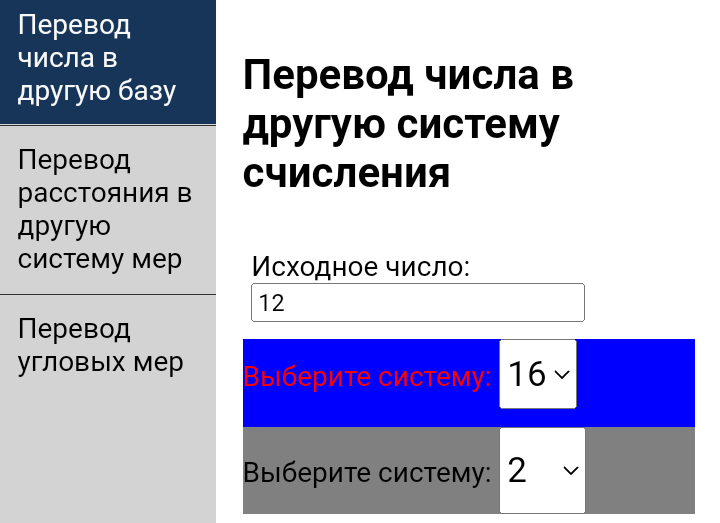
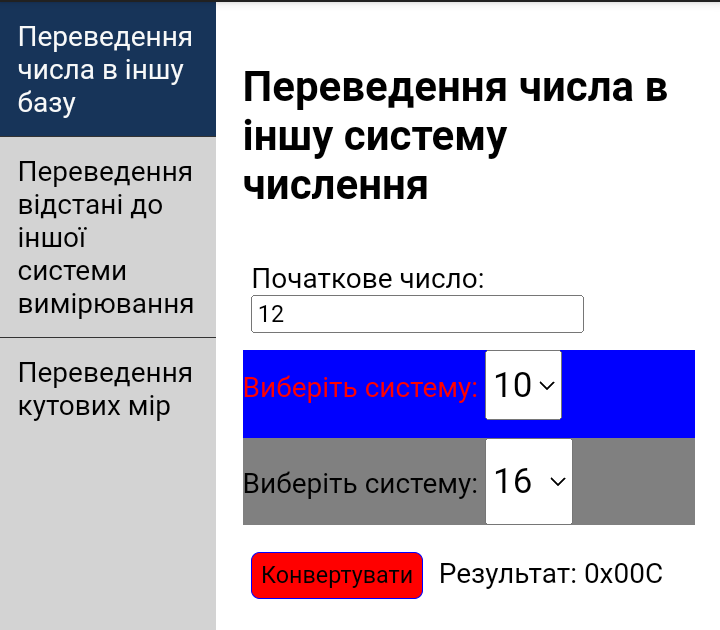
More Ukrainian.

diff --git a/src/index.html b/src/index.html
@@ -1,5 +1,5 @@
 <!DOCTYPE html>
-<html lang="en">
+<html lang="ua">
   <head>
     <meta charset="UTF-8" />
     <meta http-equiv="X-UA-Compatible" content="IE=edge" />
@@ -12,21 +12,21 @@
       <div class="nav-bar">
         <ul>
           <li>
-            <a href="#base" id="to_base" class="active" onclick="addClassForLink('to_base')"> Перевод числа в другую базу </a>
+            <a href="#base" id="to_base" class="active" onclick="addClassForLink('to_base')"> Переведення числа в іншу базу </a>
           </li>
           <li>
-            <a href="#distance" id="to_distance" onclick="addClassForLink('to_distance')"> Перевод расстояния в другую систему мер </a>
+            <a href="#distance" id="to_distance" onclick="addClassForLink('to_distance')"> Переведення відстані до іншої системи вимірювання </a>
           </li>
-          <li><a href="#angle" id="to_angle" onclick="addClassForLink('to_angle')"> Перевод угловых мер </a></li>
+          <li><a href="#angle" id="to_angle" onclick="addClassForLink('to_angle')"> Переведення кутових мір </a></li>
         </ul>
       </div>
 
       <div class="wrapper">
         <div class="block">
-          <h2 id="base">Перевод числа в другую систему счисления</h2>
+          <h2 id="base">Переведення числа в іншу систему числення</h2>
           <form>
             <div class="start">
-              <label class="label"> Исходное число: </label>
+              <label class="label"> Початкове число: </label>
               <input
                 type="text"
                 class="input"
@@ -37,18 +37,18 @@
             </div>
             <div class="from dropdown_menu">
               <label class="label">
-                Выберите систему:
+                Виберіть систему:
                 <select class="dropdown" id="convertfrom" name="convertfrom">
                   <option value="2">2</option>
                   <option value="8">8</option>
-                  <option value="10">10</option>
+                  <option value="10" selected>10</option>
                   <option value="16">16</option>
                 </select>
               </label>
             </div>
             <div class="to dropdown_menu" id="main_dropdown_menu">
               <label class="label">
-                Выберите систему:
+                Виберіть систему:
                 <select
                   class="convertto dropdown"
                   name="convertto"
@@ -66,7 +66,7 @@
               class="button"
               name="TryConvert"
               id=""
-              value="Конвертировать"
+              value="Конвертувати"
               onclick="numberConvert()"
             />
             <span class="span" id="out">Результат:</span>
@@ -74,10 +74,10 @@
         </div>
 
         <div class="block">
-          <h2 id="distance">Перевод длины в другую метрику</h2>
+          <h2 id="distance">Переведення довжини в іншу метрику</h2>
           <form>
             <div class="start">
-              <label class="label"> Исходное число: </label>
+              <label class="label"> Початкове число: </label>
               <input
                 type="text"
                 class="input"
@@ -88,7 +88,7 @@
             </div>
             <div class="from dropdown_menu">
               <label class="label">
-                Выберите систему:
+                Виберіть систему:
                 <select id="from2" name="">
                   <option value="м">м</option>
                   <option value="фут">фут</option>
@@ -99,7 +99,7 @@
             </div>
             <div class="to dropdown_menu" id="second_dropdown_menu">
               <label class="label">
-                Выберите систему:
+                Виберіть систему:
                 <select
                   class="convertto dropdown"
                   name=""
@@ -107,7 +107,7 @@
                 >
                   <option value="м">м</option>
                   <option value="фут">фут</option>
-                  <option value="миля">миля</option>
+                  <option value="миля" selected>миля</option>
                   <option value="км">км</option>
                 </select>
               </label>
@@ -117,7 +117,7 @@
               class="button"
               name=""
               id=""
-              value="Конвертировать"
+              value="Конвертувати"
               onclick="lengthConvert()"
             />
             <span class="span" id="out2">Результат:</span>
@@ -125,10 +125,10 @@
         </div>
         
         <div class="block">
-          <h2 id="angle">Перевод угловых мер</h2>
+          <h2 id="angle">Переведення кутових мір</h2>
           <form>
             <div class="start">
-              <label class="label"> Исходное число: </label>
+              <label class="label"> Початкове число: </label>
               <input
                 type="text"
                 class="input"
@@ -139,24 +139,24 @@
             </div>
             <div class="from dropdown_menu">
               <label class="label">
-                Выберите систему (исходная):
+                Виберіть систему (початкова):
                 <select id="from3" name="">
-                  <option value="градус"> градус </option>
-                  <option value="радиан"> радиан </option>
+                  <option value="градус" selected> градус </option>
+                  <option value="радіан"> радіан </option>
                   <option value="град"> град </option>
                 </select>
               </label>
             </div>
             <div class="to dropdown_menu" id="second_dropdown_menu">
               <label class="label">
-                Выберите систему (конечная):
+                Виберіть систему (кінцева):
                 <select
                   class="convertto dropdown"
                   name=""
                   id="third_dropdown"
                 >
                   <option value="градус"> градус </option>
-                  <option value="радиан"> радиан </option>
+                  <option value="радіан" selected> радіан </option>
                   <option value="град"> град </option>
                 </select>
               </label>
@@ -166,7 +166,7 @@
               class="button"
               name=""
               id=""
-              value="Конвертировать"
+              value="Конвертувати"
               onclick="angleConvert()"
             />
             <span class="span" id="out3" >Результат:</span>
@@ -177,6 +177,6 @@
     <script src="./run.js"></script>
   </body>
   <footer class="regular">
-    <p>Copyright MarkAlexI 2022</p>
+    <p>Copyright MarkAlexI 2024</p>
   </footer>
 </html>

diff --git a/src/run.js b/src/run.js
@@ -1,35 +1,38 @@
 'use strict';
 
 function numberConvert() {
-    let output = document.getElementById("out");
-    let input = document.getElementById("input").value;
-  
-    let from = +document.getElementById("convertfrom").value;
-    let to = +document.getElementById("main_dropdown").value;
-    let result = parseInt(input, from).toString(to);
-    let checkInput = false;
-    switch (from) {
-      case 2:
-        checkInput = /^[01]+$/.test(input);
-        break;
-      case 8:
-        checkInput = /^[0-7]+$/.test(input);
-        break;
-      case 10:
-        checkInput = /^\d+$/.test(input);
-        break;
-      case 16:
-        checkInput = /^[0-9-ABCDEF]+$/.test(input);
-        break;
-      default:
-        console.log("?");
-        break;
-    }
-    
-    if (isNaN(result) || !checkInput) result = "введенное число не валидно";
-    output.innerHTML = "Результат: " + result;
+  let output = document.getElementById("out");
+  let input = document.getElementById("input").value;
+
+  let from = +document.getElementById("convertfrom").value;
+  let to = +document.getElementById("main_dropdown").value;
+  let result = parseInt(input, from).toString(to);
+  let checkInput = false;
+  switch (from) {
+    case 2:
+      checkInput = /^[01]+$/.test(input);
+      break;
+    case 8:
+      checkInput = /^[0-7]+$/.test(input);
+      break;
+    case 10:
+      checkInput = /^\d+$/.test(input);
+      break;
+    case 16:
+      checkInput = /^[0-9-ABCDEF]+$/.test(input);
+      break;
+    default:
+      console.log("?");
+      break;
   }
   
+  if (to === 16) result = '0x00' + result.toUpperCase();
+  
+  if (to !== 16 && isNaN(result) || !checkInput) result = "введене число не валідне";
+
+  output.innerHTML = "Результат: " + result;
+}
+
 function lengthConvert() {
   let output = document.getElementById("out2");
   let input = document.getElementById("input2").value;
@@ -38,29 +41,29 @@ function lengthConvert() {
   let to = document.getElementById("second_dropdown").value;
   let coef = 10;
   let result = 0;
-  
+
   if (from === "м" && to === "м") coef = 1;
   if (from === "м" && to === "фут") coef = 3.28084;
-  if (from === "м" && to === "миля") coef = 1/1609.34;
+  if (from === "м" && to === "миля") coef = 1 / 1609.34;
   if (from === "м" && to === "км") coef = .001;
-  
+
   if (from === "фут" && to === "м") coef = .3048;
   if (from === "фут" && to === "фут") coef = 1;
   if (from === "фут" && to === "миля") coef = 0.000189;
   if (from === "фут" && to === "км") coef = .0003048;
-  
+
   if (from === "миля" && to === "м") coef = 1609.34;
   if (from === "миля" && to === "фут") coef = 5280;
   if (from === "миля" && to === "миля") coef = 1;
   if (from === "миля" && to === "км") coef = 1.60934;
-  
+
   if (from === "км" && to === "м") coef = 0.001;
   if (from === "км" && to === "фут") coef = 3280.84;
   if (from === "км" && to === "миля") coef = .621371;
   if (from === "км" && to === "км") coef = 1;
-  
+
   result = input * coef;
-  if (input < 0 || isNaN(result)) result = "введенное число не валидно";
+  if (input < 0 || isNaN(result)) result = "введене число не валідне";
   output.innerHTML = "Результат: " + result;
 }
 
@@ -72,21 +75,21 @@ function angleConvert() {
   let to = document.getElementById("third_dropdown").value;
   let coef = 1;
   let result = 0;
-  
+
   if (from === "градус" && to === "градус") coef = 1;
-  if (from === "градус" && to === "радиан") coef = .01745;
+  if (from === "градус" && to === "радіан") coef = .01745;
   if (from === "градус" && to === "град") coef = 1.111;
-  
-  if (from === "радиан" && to === "градус") coef = 57.296;
-  if (from === "радиан" && to === "радиан") coef = 1;
-  if (from === "радиан" && to === "град") coef = 63.662;
-  
+
+  if (from === "радіан" && to === "градус") coef = 57.296;
+  if (from === "радіан" && to === "радіан") coef = 1;
+  if (from === "радіан" && to === "град") coef = 63.662;
+
   if (from === "град" && to === "градус") coef = .9;
-  if (from === "град" && to === "радиан") coef = .01571;
+  if (from === "град" && to === "радіан") coef = .01571;
   if (from === "град" && to === "град") coef = 1;
-  
+
   result = input * coef;
-  if (input < 0 || isNaN(result)) result = "введенное число не валидно";
+  if (input < 0 || isNaN(result)) result = "введене число не валідне";
   output.innerHTML = "Результат: " + result;
 }
 
